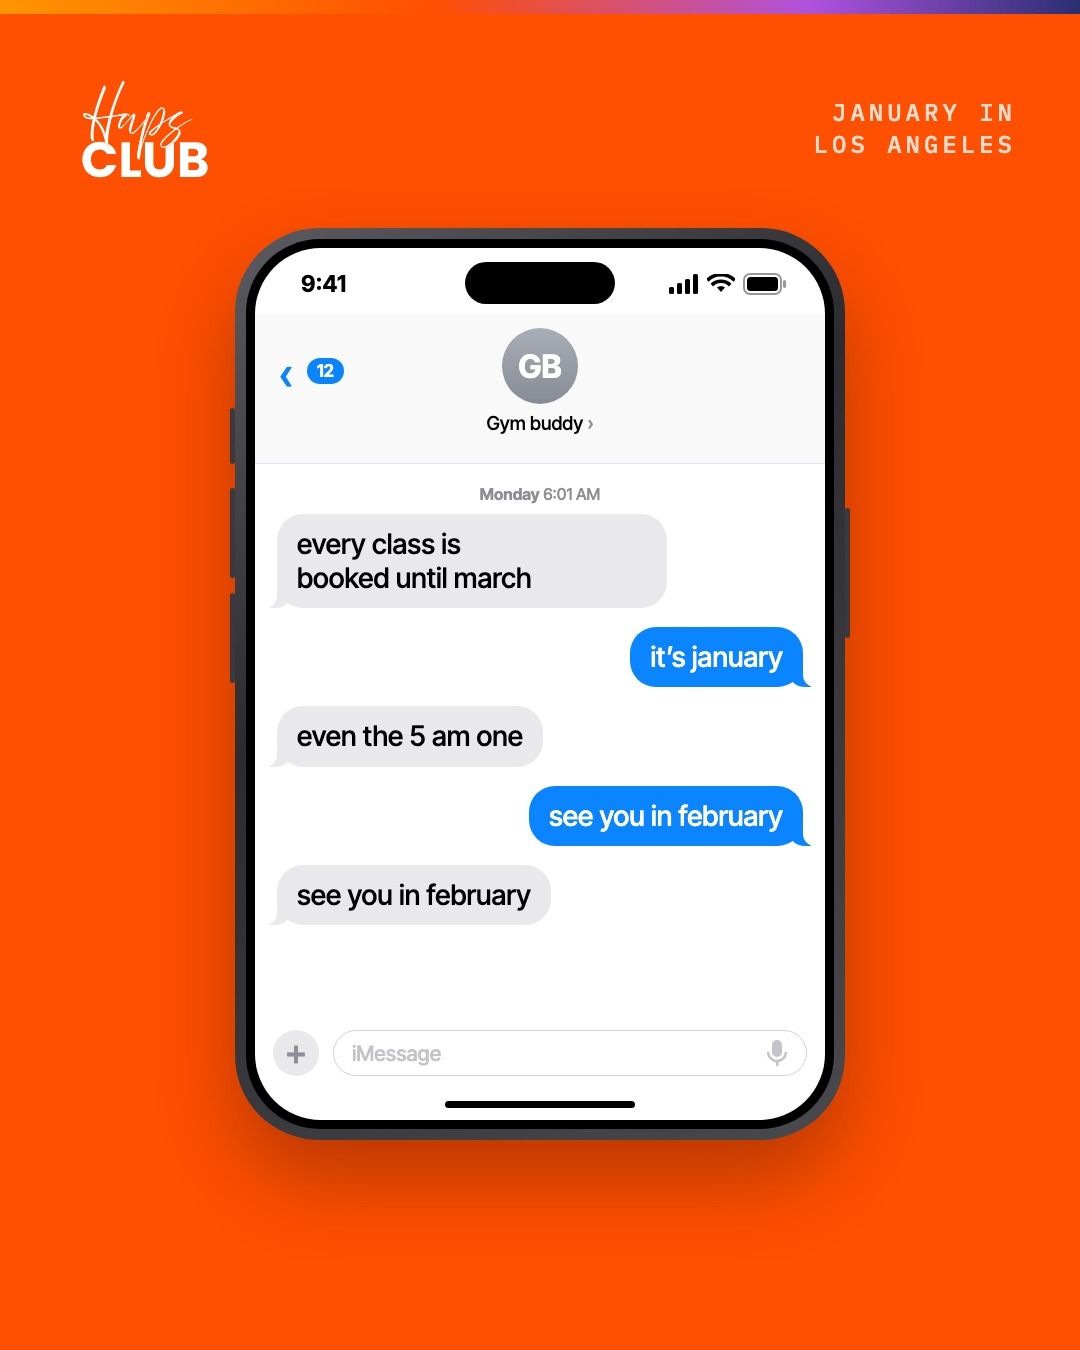
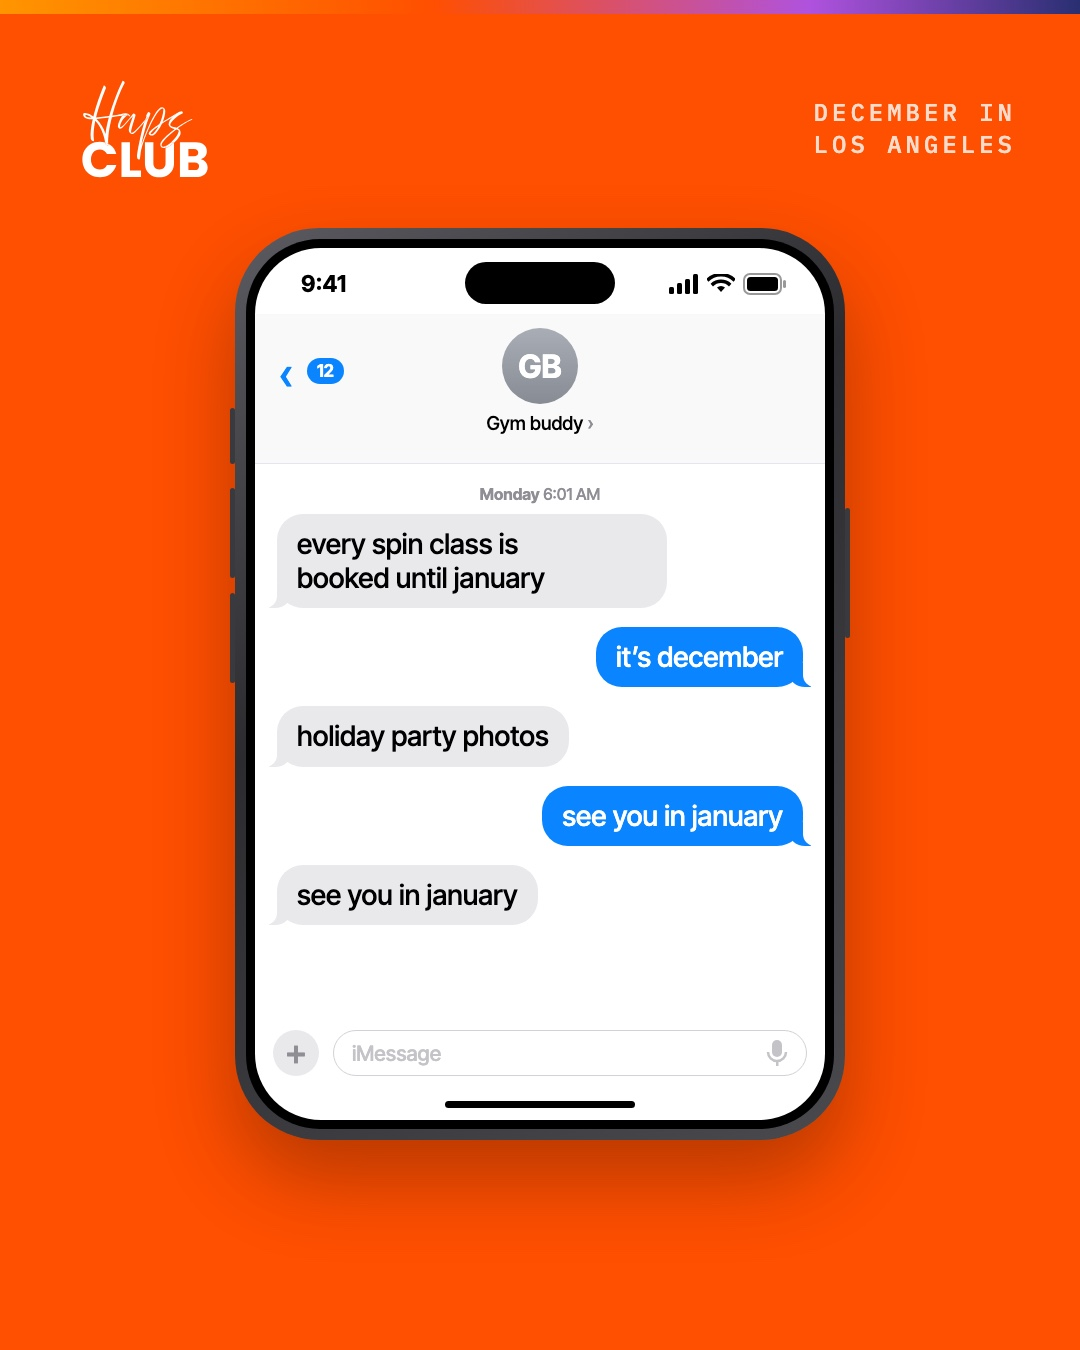
Meme batch 4: December dates for lock screen, calendar, gym

diff --git a/scripts/meme_cards.py b/scripts/meme_cards.py
@@ -392,9 +392,9 @@ def ios_snow():
 
 
 def ios_gym():
-    return iphone("January in<br>Los&nbsp;Angeles", "Gym buddy", [
-        ("ts", "<b>Monday</b> 6:01 AM"), ("them", "every class is booked until march"), ("me", "it&rsquo;s january"),
-        ("them", "even the 5 am one"), ("me", "see you in february"), ("them", "see you in february")], bg=ORANGE, ink="#fff", dark=True, receipt=None)
+    return iphone("December in<br>Los&nbsp;Angeles", "Gym buddy", [
+        ("ts", "<b>Monday</b> 6:01 AM"), ("them", "every spin class is booked until january"), ("me", "it&rsquo;s december"),
+        ("them", "holiday party photos"), ("me", "see you in january"), ("them", "see you in january")], bg=ORANGE, ink="#fff", dark=True, receipt=None)
 
 
 def bingo_lax():
@@ -439,19 +439,19 @@ CAL_CSS = IPAD_CSS + """.cal{position:absolute;left:28px;right:28px;top:66px;bot
 def ipad_calendar():
     start, end, H = 7, 22, 600
     def y(h): return (h - start) / (end - start) * H
-    days = [("MON", "11", [("drive", 17.5, 19, "Drive to dinner", "5:30 PM"), ("plan", 19, 20, "Dinner", "7 PM"), ("drive", 20, 21.7, "Drive home", "8 PM")]),
-            ("TUE", "12", [("drive", 8.0, 9.2, "Find parking", "8 AM"), ("plan", 9.25, 10.25, "Coffee", "9:15 AM")]),
-            ("WED", "13", [("plan", 7.1, 8.2, "Gym", "7 AM"), ("drive", 12, 14, "Cross the 405", "Noon"), ("plan", 14, 15, "Lunch", "2 PM")]),
-            ("THU", "14", [("drive", 13, 16.5, "Leave for LAX", "1 PM"), ("plan", 16.5, 17.5, "Flight", "4:30 PM")]),
-            ("FRI", "15", [("drive", 15.5, 18, "Santa Monica to Silver Lake", "3:30 PM"), ("plan", 18, 19.5, "Happy hour", "6 PM")])]
+    days = [("MON", "7", [("drive", 17.5, 19, "Drive to dinner", "5:30 PM"), ("plan", 19, 20, "Dinner", "7 PM"), ("drive", 20, 21.7, "Drive home", "8 PM")]),
+            ("TUE", "8", [("drive", 8.0, 9.2, "Find parking", "8 AM"), ("plan", 9.25, 10.25, "Coffee", "9:15 AM")]),
+            ("WED", "9", [("plan", 7.1, 8.2, "Gym", "7 AM"), ("drive", 12, 14, "Cross the 405", "Noon"), ("plan", 14, 15, "Lunch", "2 PM")]),
+            ("THU", "10", [("drive", 13, 16.5, "Leave for LAX", "1 PM"), ("plan", 16.5, 17.5, "Flight", "4:30 PM")]),
+            ("FRI", "11", [("drive", 15.5, 18, "Santa Monica to Silver Lake", "3:30 PM"), ("plan", 18, 19.5, "Happy hour", "6 PM")])]
     hours = "".join(f'<div class="hr" style="top:{y(h):.0f}px"></div><div class="hl" style="top:{y(h):.0f}px">{(h - 1) % 12 + 1} {"AM" if h < 12 else "PM"}</div>' for h in range(8, 22, 2))
     cols = ""
     for _, _, evs in days:
         cols += '<div class="col">' + "".join(f'<div class="ev {k}" style="top:{y(a):.0f}px;height:{y(b) - y(a) - 3:.0f}px">{t}<small>{tm}</small></div>' for k, a, b, t, tm in evs) + "</div>"
     head = '<div class="ch"><div></div>' + "".join(f'<div>{d}<b>{n}</b></div>' for d, n, _ in days) + "</div>"
     body = ('<div class="kicker">A normal week<br>in Los&nbsp;Angeles</div><div class="ipad"><div class="scr">'
-            '<div class="sb"><span>9:41 AM&nbsp; Mon Jan 11</span><span>100%</span></div>'
-            '<div class="cal"><div class="mon">January 2027</div>' + head + f'<div class="grid">{hours}<div></div>{cols}</div></div></div></div>')
+            '<div class="sb"><span>9:41 AM&nbsp; Mon Dec 7</span><span>100%</span></div>'
+            '<div class="cal"><div class="mon">December 2026</div>' + head + f'<div class="grid">{hours}<div></div>{cols}</div></div></div></div>')
     return page(CREAM, NAVY, body, CAL_CSS)
 
 
@@ -509,7 +509,7 @@ background:linear-gradient(180deg,#ff9a5a 0%,#ff6a88 35%,#7a5cc7 70%,#2b2f6e 100
 .tx b{display:block;font-size:20px;margin-top:2px;text-wrap:balance}.tx p{font-size:19px;line-height:1.2;margin-top:2px;text-wrap:balance}
 .hm{position:absolute;left:50%;transform:translateX(-50%);bottom:12px;width:190px;height:7px;border-radius:4px;background:#fff}"""
     body = ('<div class="kicker">Every evening<br>in Los&nbsp;Angeles</div><div class="ph"><div class="scr"><div class="isl"></div>'
-            f'<div class="dt">Friday, January 8</div><div class="tm">5:41</div><div class="ns">{cards}</div><div class="hm"></div></div></div>')
+            f'<div class="dt">Friday, December 4</div><div class="tm">5:41</div><div class="ns">{cards}</div><div class="hm"></div></div></div>')
     return page(GOLD, NAVY, body, css)
 
 
